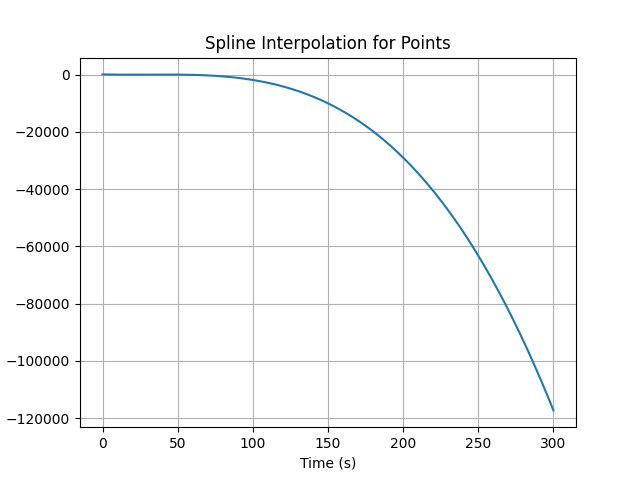
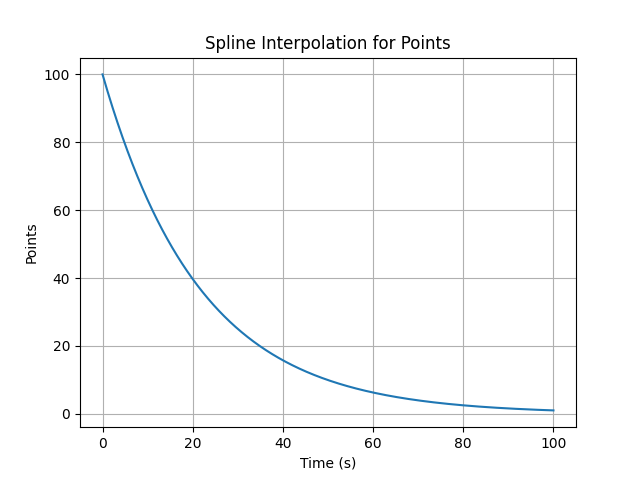
refactor: replace spline function with exponential decay scoring mechanism and update tests accordingly

diff --git a/src/math_game/modules/points.py b/src/math_game/modules/points.py
@@ -1,55 +1,30 @@
 import math
-import time
 
 import numpy as np
-from scipy.interpolate import make_interp_spline
 
 
-def build_spline():
+def score_function(time_elapsed):
     """
-    Build a cubic spline that passes through the key points:
-    t=0  -> 100 points
-    t=5  -> 50  points
-    t=30 -> 25  points
-
-    Returns:
-        A spline function f(t) valid for 0 <= t <= 30.
-    """
-    # Key time points
-    x = np.array([0, 5, 30], dtype=float)
-    # Corresponding scores
-    y = np.array([100, 50, 25], dtype=float)
-
-    # Create a cubic spline interpolant
-    spline_func = make_interp_spline(x, y, k=3, bc_type="natural")
-    return spline_func
-
-
-def score_function(time_elapsed, spline_func):
-    """
-    Compute the score for a given time_elapsed using:
-      1) The spline for t <= 30.
-      2) A smooth exponential decay for t > 30.
+    Compute the score based on the elapsed time:
+    - Starts at 100 (instant answer).
+    - Is exactly 50 points at 15 seconds.
+    - Smoothly decays to approach 0 as time increases but never reaches 0.
 
     Args:
         time_elapsed (float): The time (in seconds) taken to answer.
-        spline_func (callable): The spline function for 0 <= t <= 30.
 
     Returns:
         float: The score based on the response time.
     """
-    if time_elapsed <= 0:
-        # An "instant" response
-        return 100.0
-    elif time_elapsed <= 30:
-        # Use the spline for times up to 30 seconds
-        return max(
-            0, float(spline_func(time_elapsed))
-        )  # Clamp to avoid negative values
-    else:
-        # For times > 30, exponentially approach 0
-        decay_factor = 0.03  # Adjust as desired
-        score_at_30 = 25.0
-        return max(
-            0, float(score_at_30 * math.exp(-decay_factor * (time_elapsed - 30)))
-        )
+    # Constants for the decay function
+    initial_score = 100  # Maximum score at t=0
+    half_life = 15  # Time where score is 50 (3 times slower)
+    decay_rate = (
+        math.log(2) / half_life
+    )  # Decay constant to ensure score is 50 at 15 sec
+
+    # Calculate the score using exponential decay
+    score = initial_score * np.exp(-decay_rate * time_elapsed)
+
+    # Ensure score never goes below a small positive value (e.g., 0.01)
+    return np.maximum(score, 0.01)

diff --git a/tests/test_modules/test_points.py b/tests/test_modules/test_points.py
@@ -5,9 +5,9 @@ from math_game.modules import points
 
 
 def test_build_spline():
-    spline_func = points.build_spline()
+    spline_func = points.score_function
     # graph the spline and save it
-    x = np.linspace(0, 300, 1000)
+    x = np.linspace(0, 100, 1000)
     y = spline_func(x)
     plt.plot(x, y)
     plt.xlabel("Time (s)")
